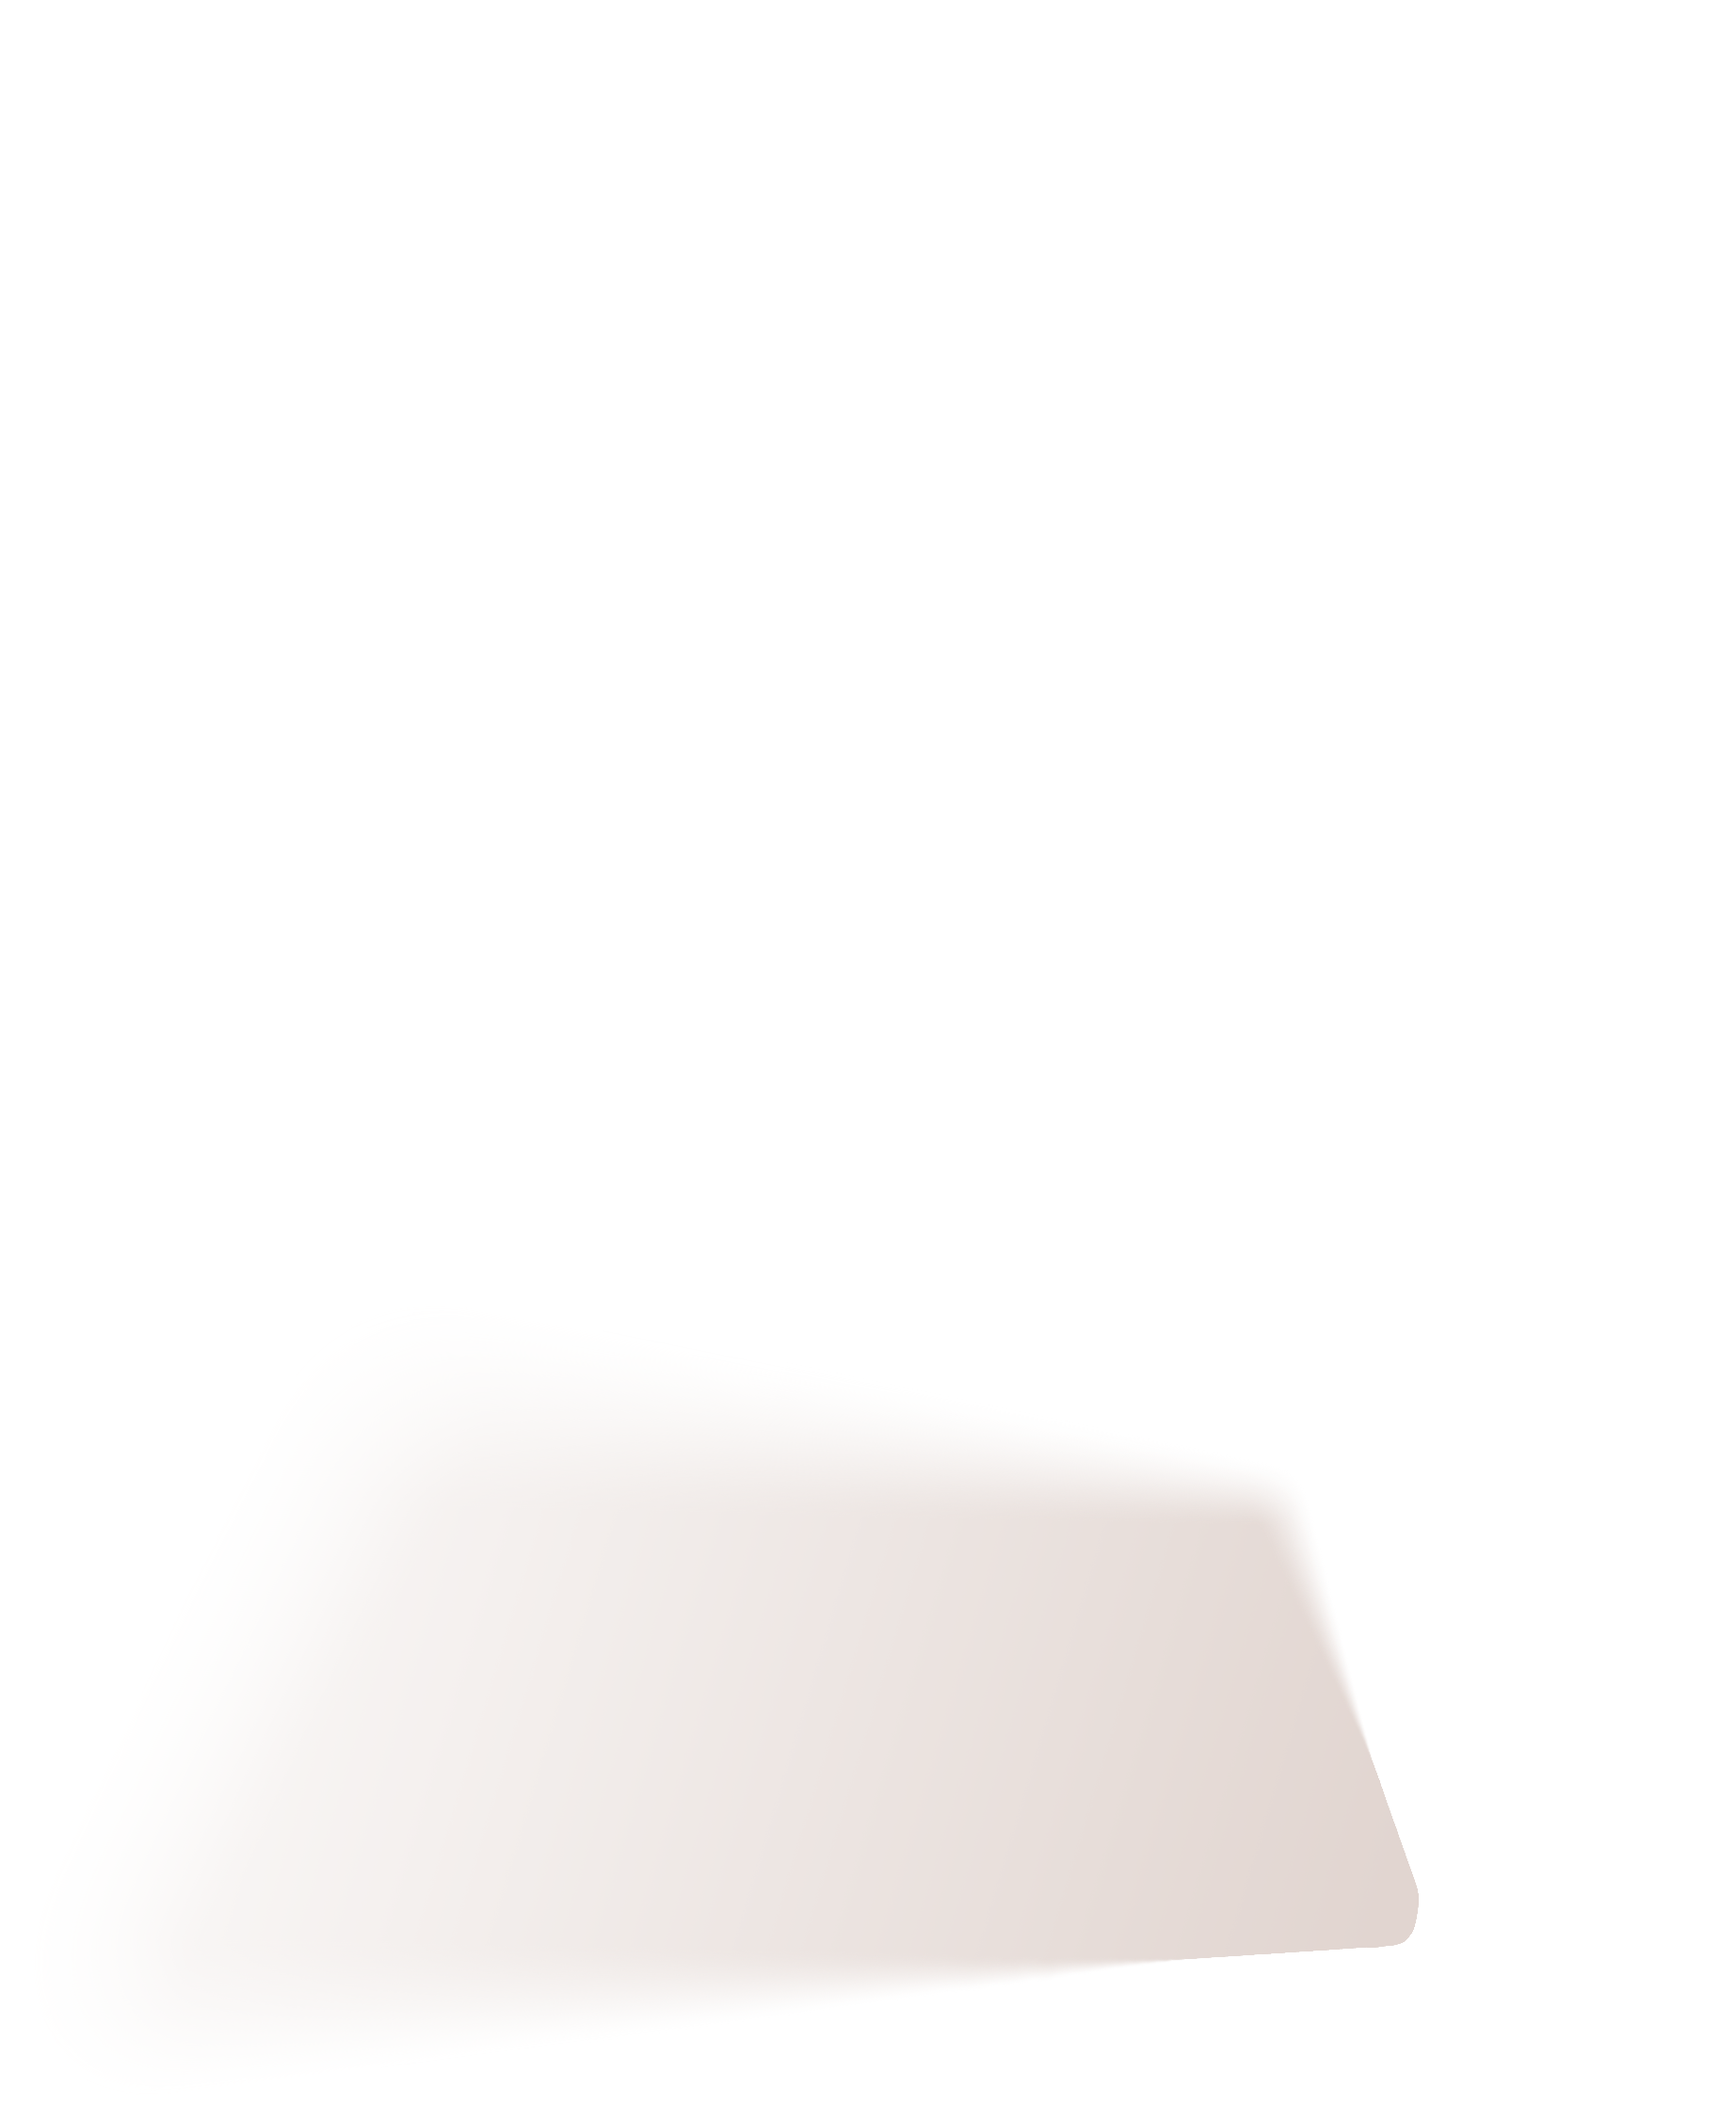
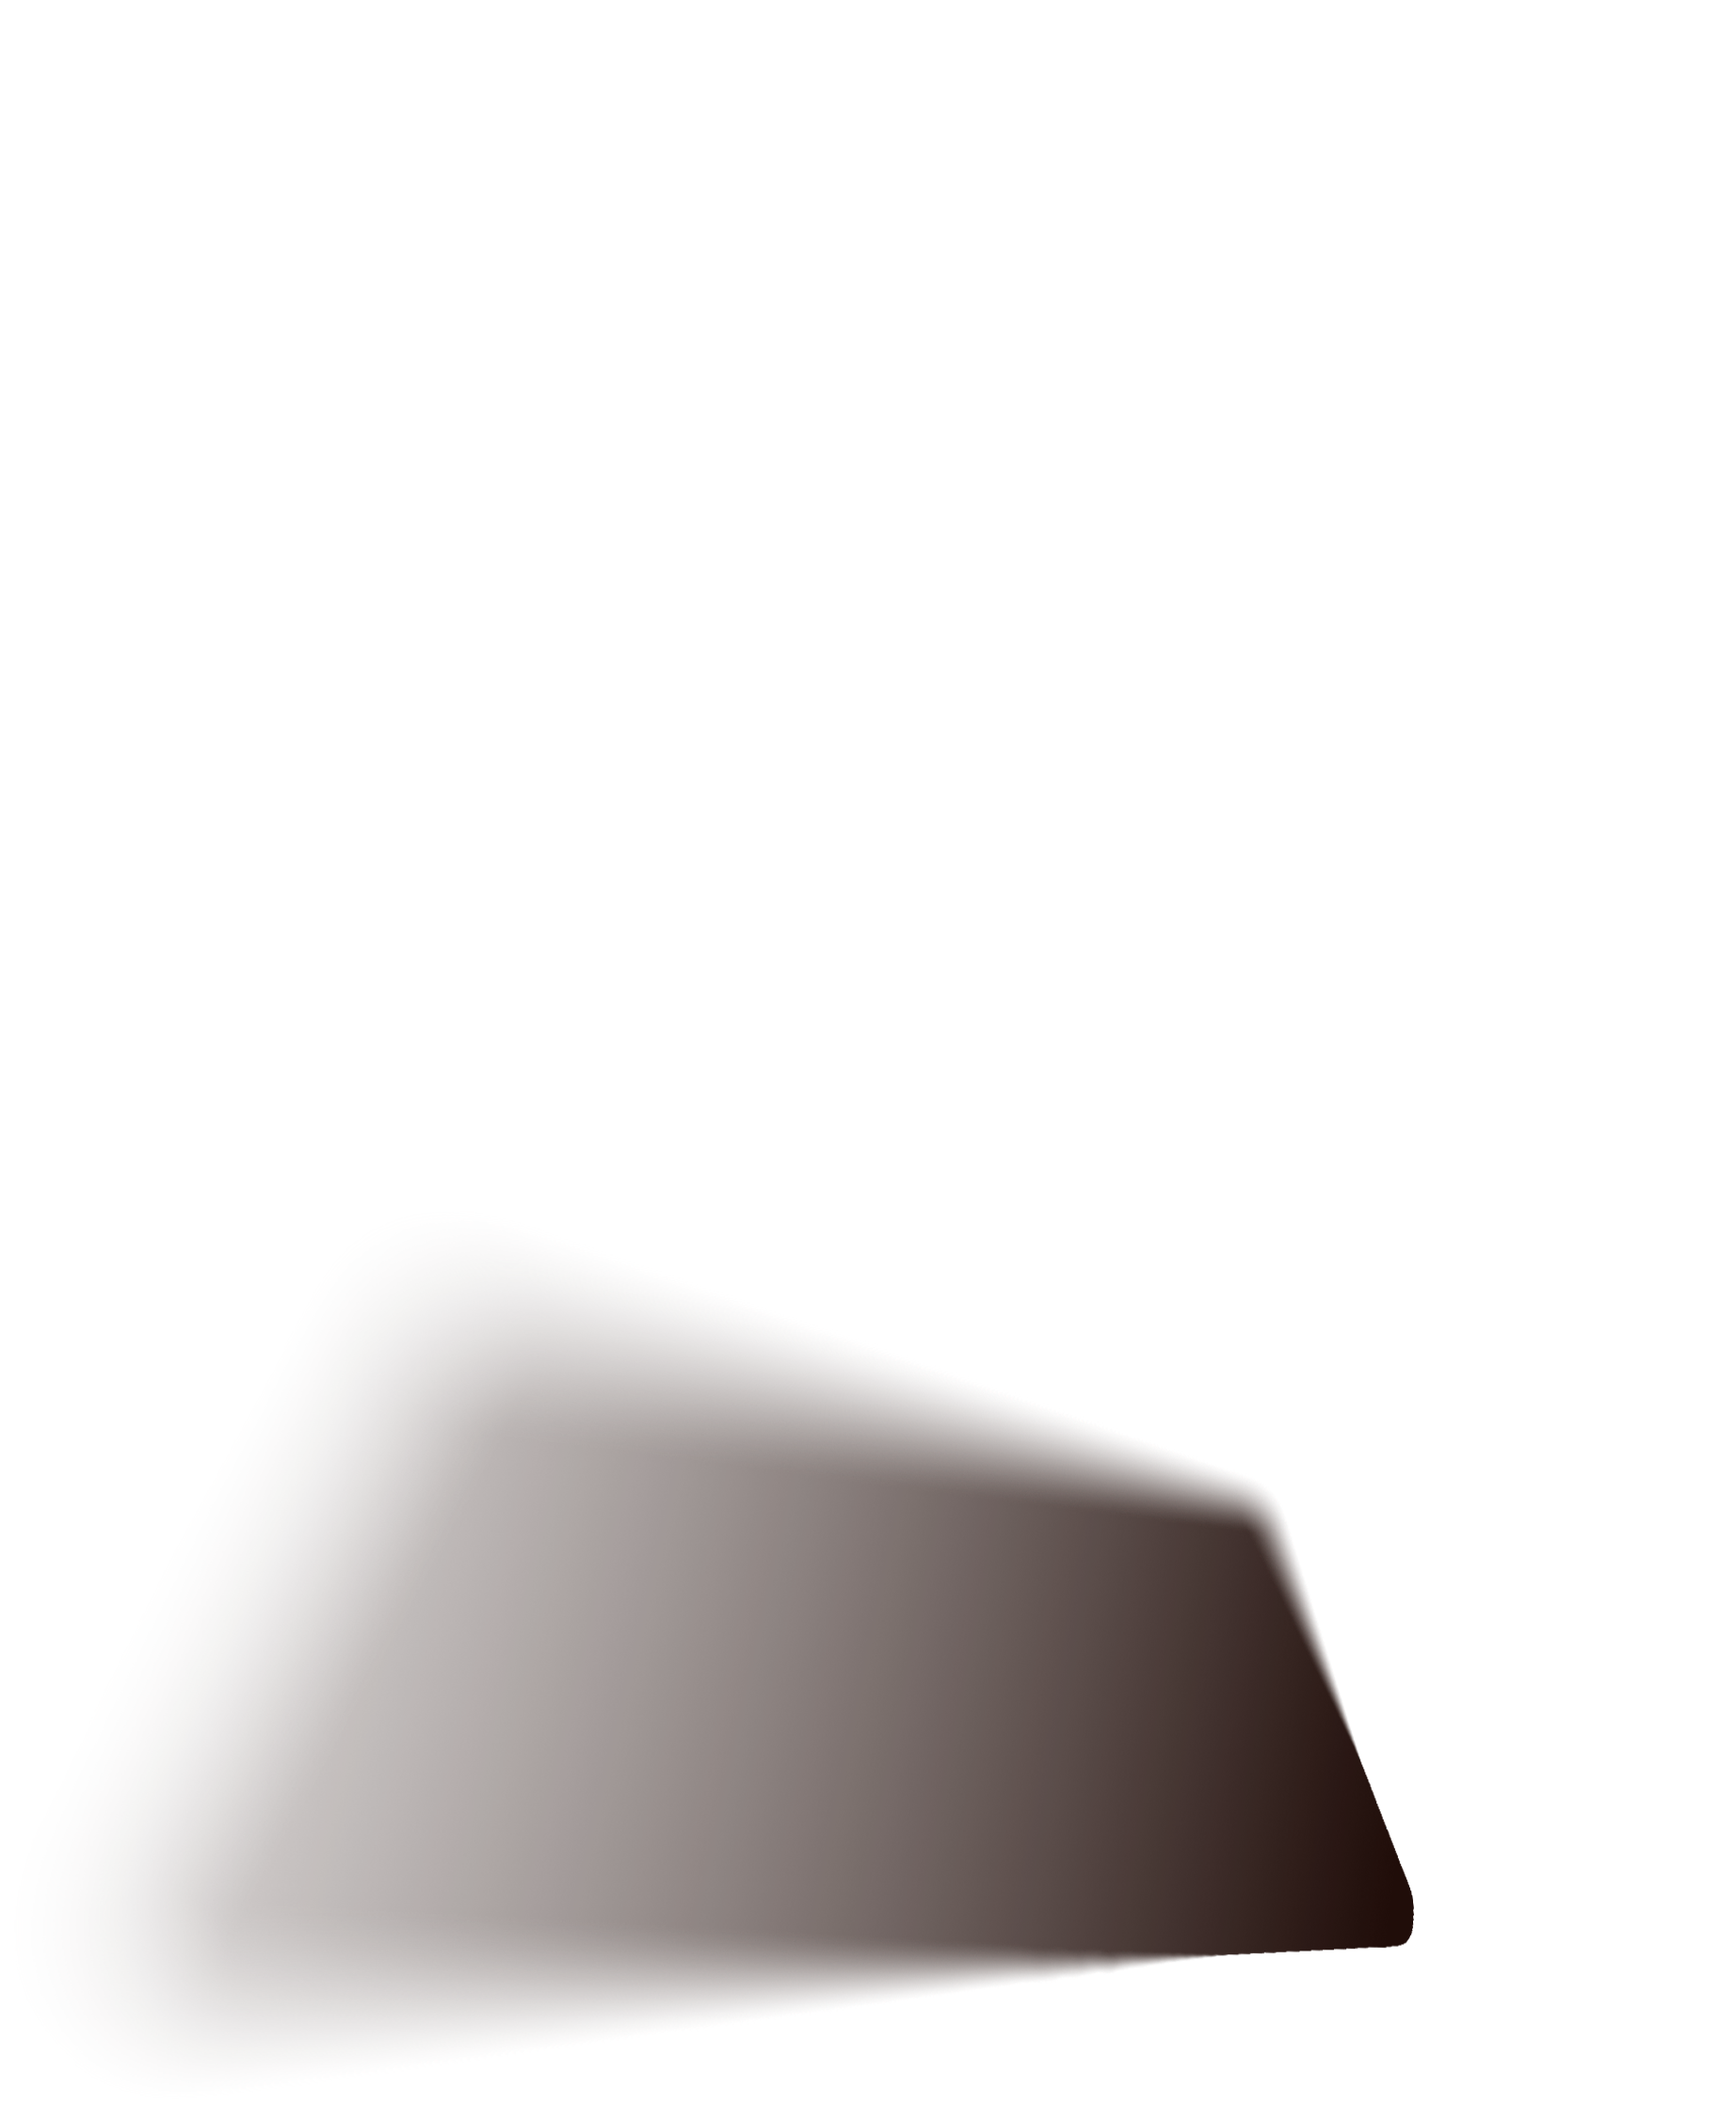
Adjust shadow animation

Changed region(s): [[0.0936, 0.6174, 0.8424, 0.957]]

diff --git a/src/components/HeroSection.js b/src/components/HeroSection.js
@@ -70,9 +70,11 @@ const HeroImageContainer = styled.div`
   }
 
   &::after {
+    bottom: 0;
     background-image: url(${heroShadowUrl});
     z-index: -1000;
-    opacity: ${(props) => Math.max(0, 1 - props.offsetY * 0.0025)};
+    opacity: ${(props) => Math.max(0, 0.35 - props.offsetY * 0.001)};
+    transform: skew(${(props) => Math.max(-10, 0 - props.offsetY * 0.025)}deg);
   }
 `;
 
